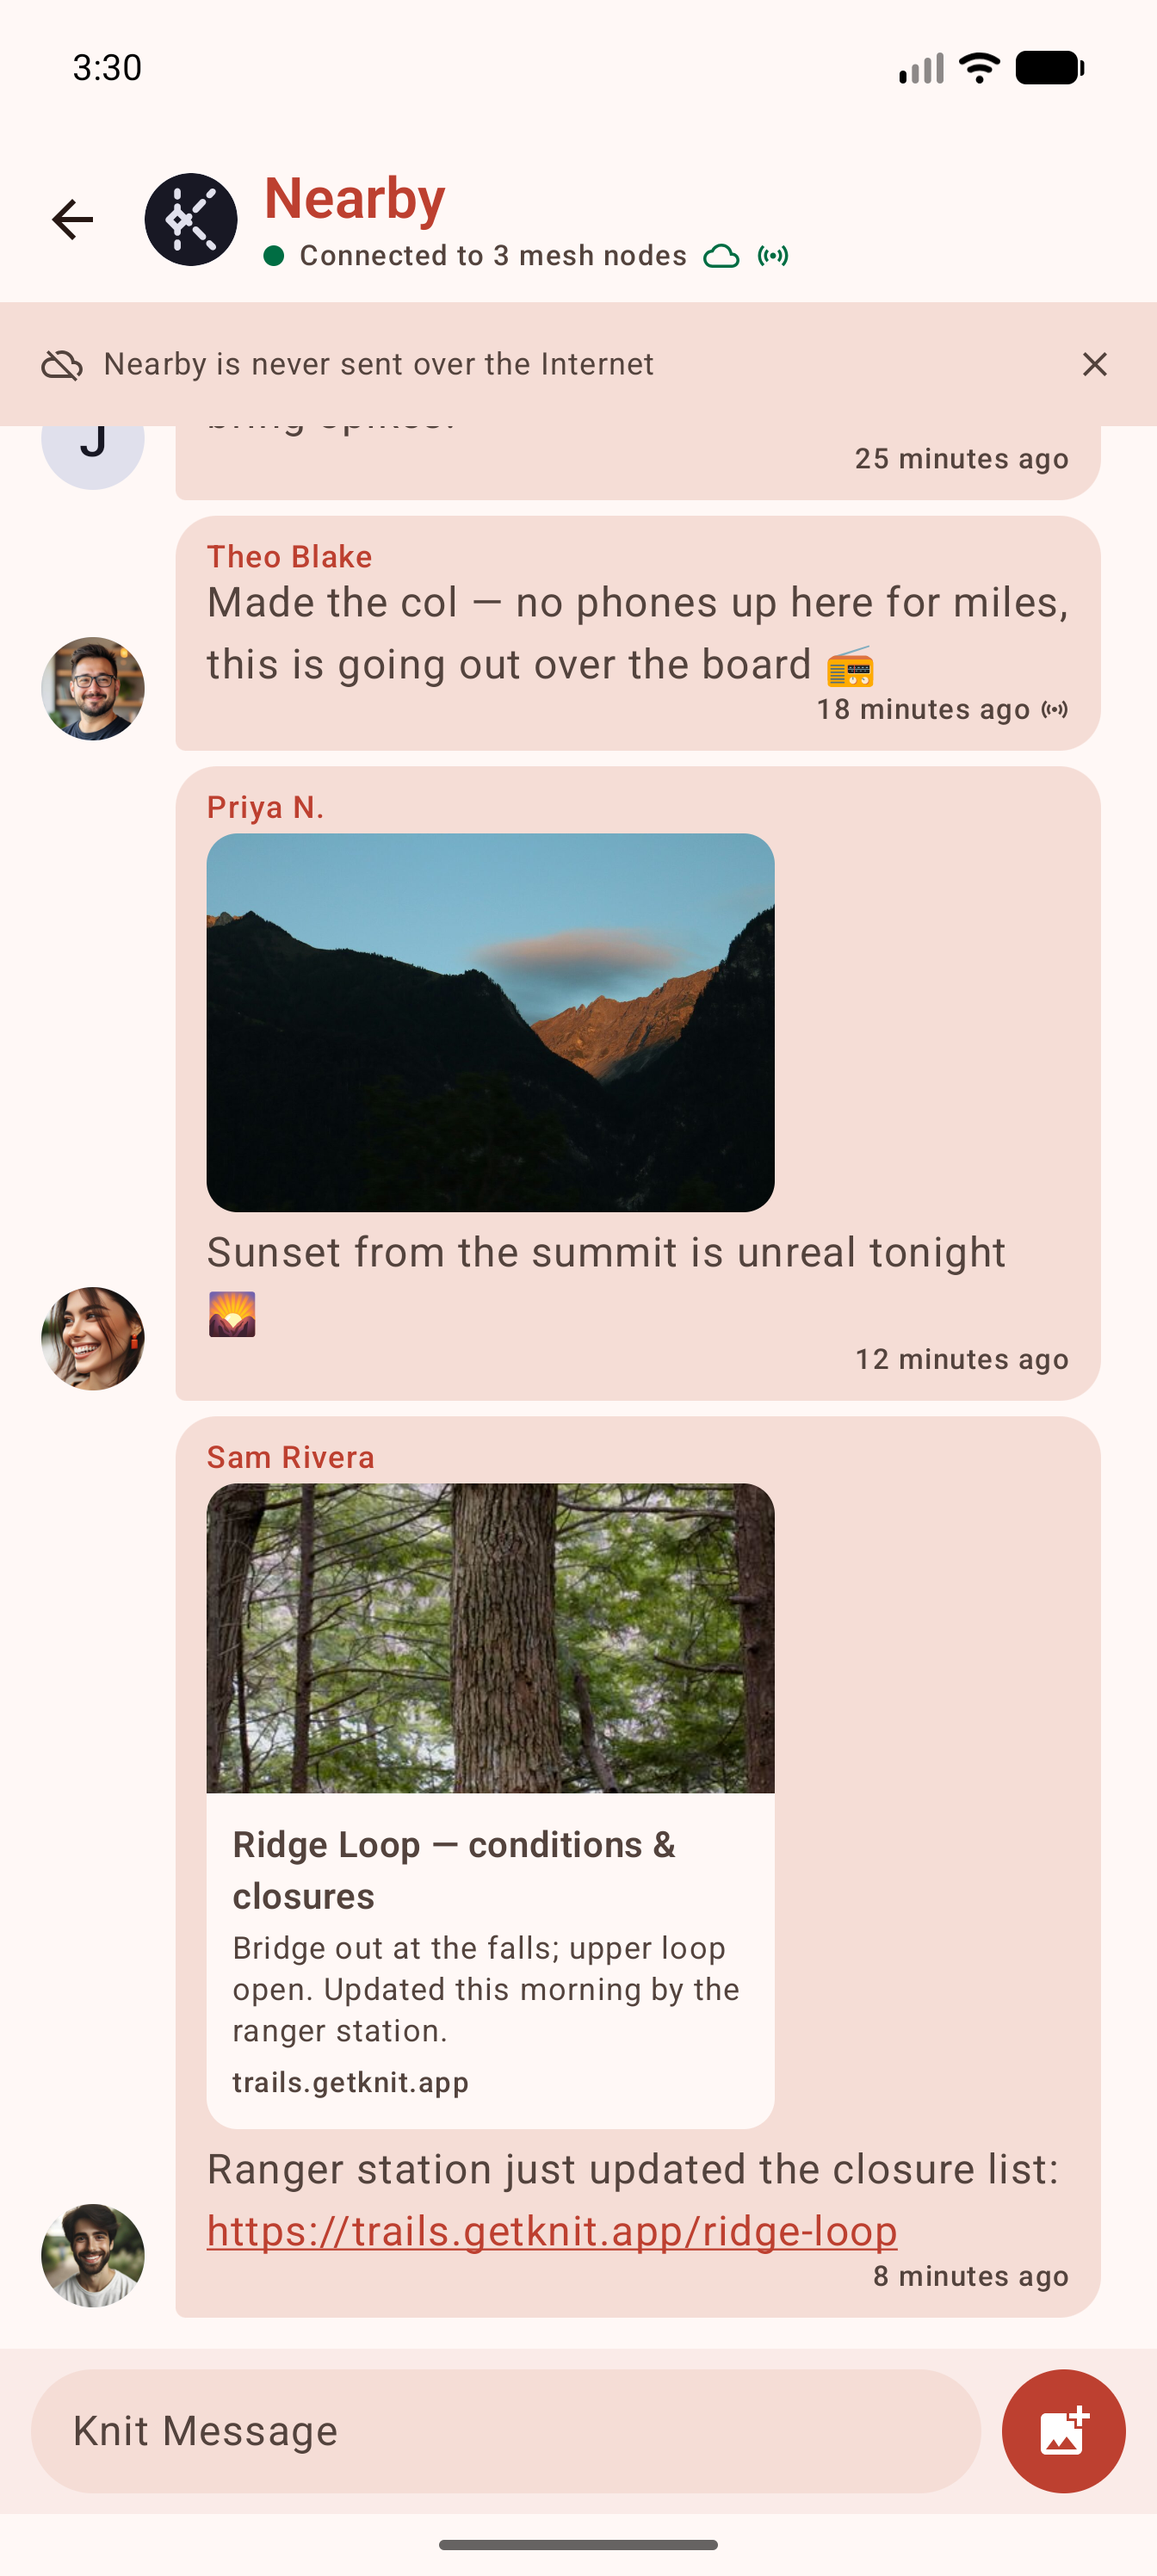
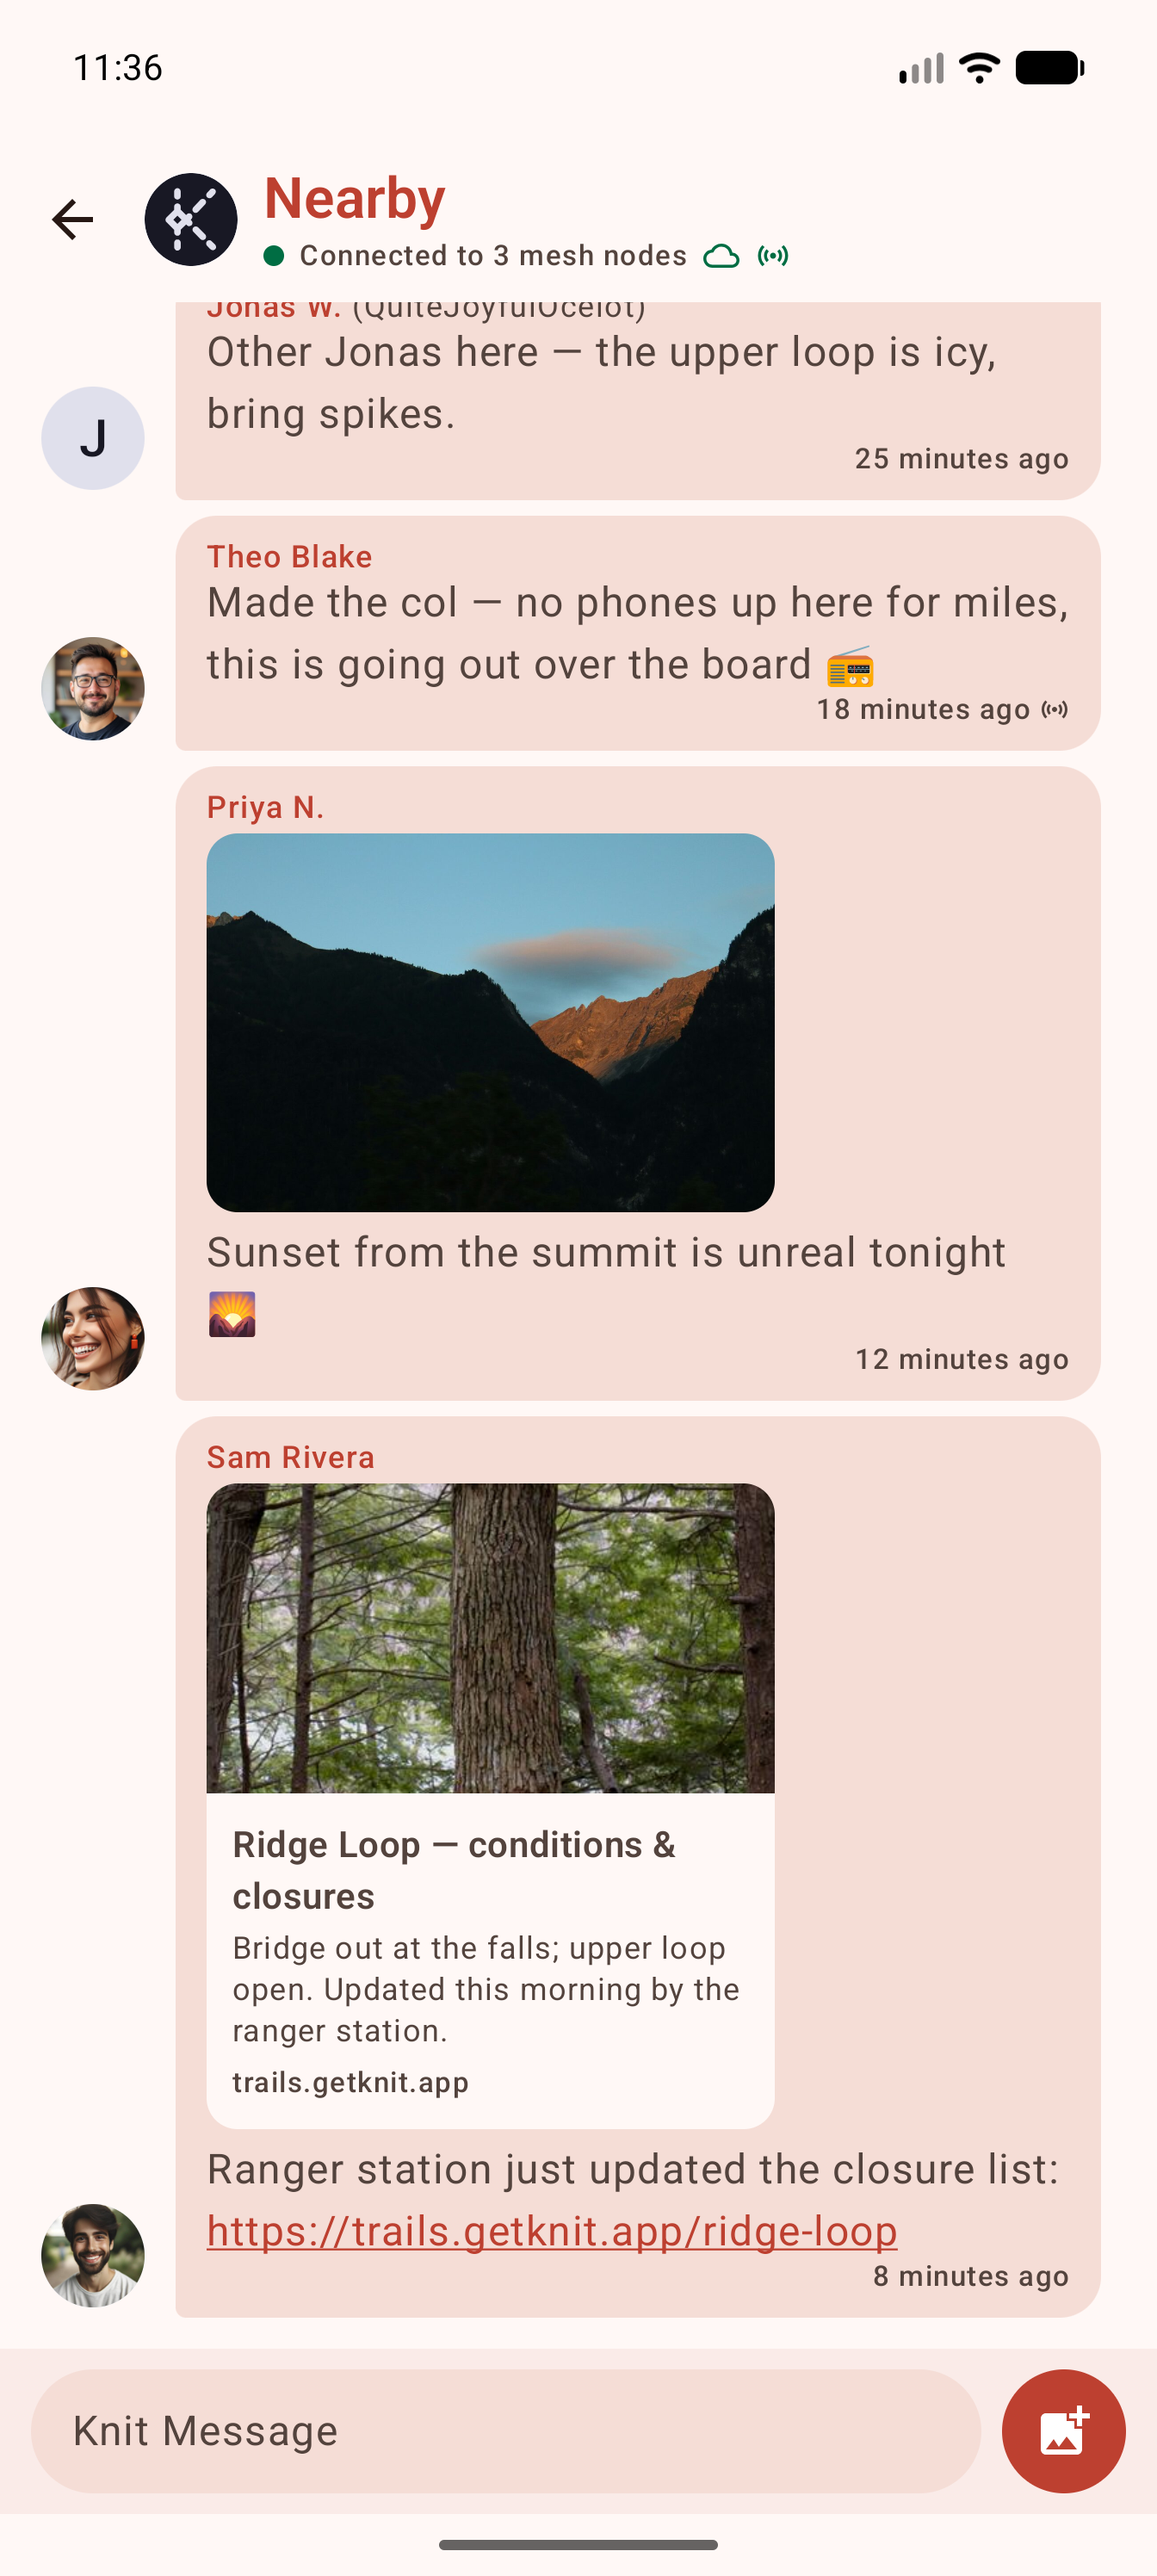
fix(demo): clear the Nearby relay notice in the seeded room
Refresh the Play hero screenshot from the same capture.

diff --git a/app/src/debug/java/app/getknit/knit/demo/DemoWriter.kt b/app/src/debug/java/app/getknit/knit/demo/DemoWriter.kt
@@ -90,6 +90,10 @@ class DemoWriter(
         // set state, and it is the local half of the cue the peer badges are the remote half of. Not a
         // scenario field — it reads the same at a trailhead and on the playa, like the planes.
         settings.setOpenToChat(true)
+        // The room's "never sent over the Internet" notice, already dismissed. It is a first-run banner a
+        // real user clears once and never sees again, so leaving it up puts a transient state across the top
+        // of every capture of the room — and it is the one shot where the messages are the subject.
+        settings.dismissRelayRoomNotice()
     }
 
     /** Writes the full Nearby history + a read watermark leaving the latest message unread (a "1" badge). */
